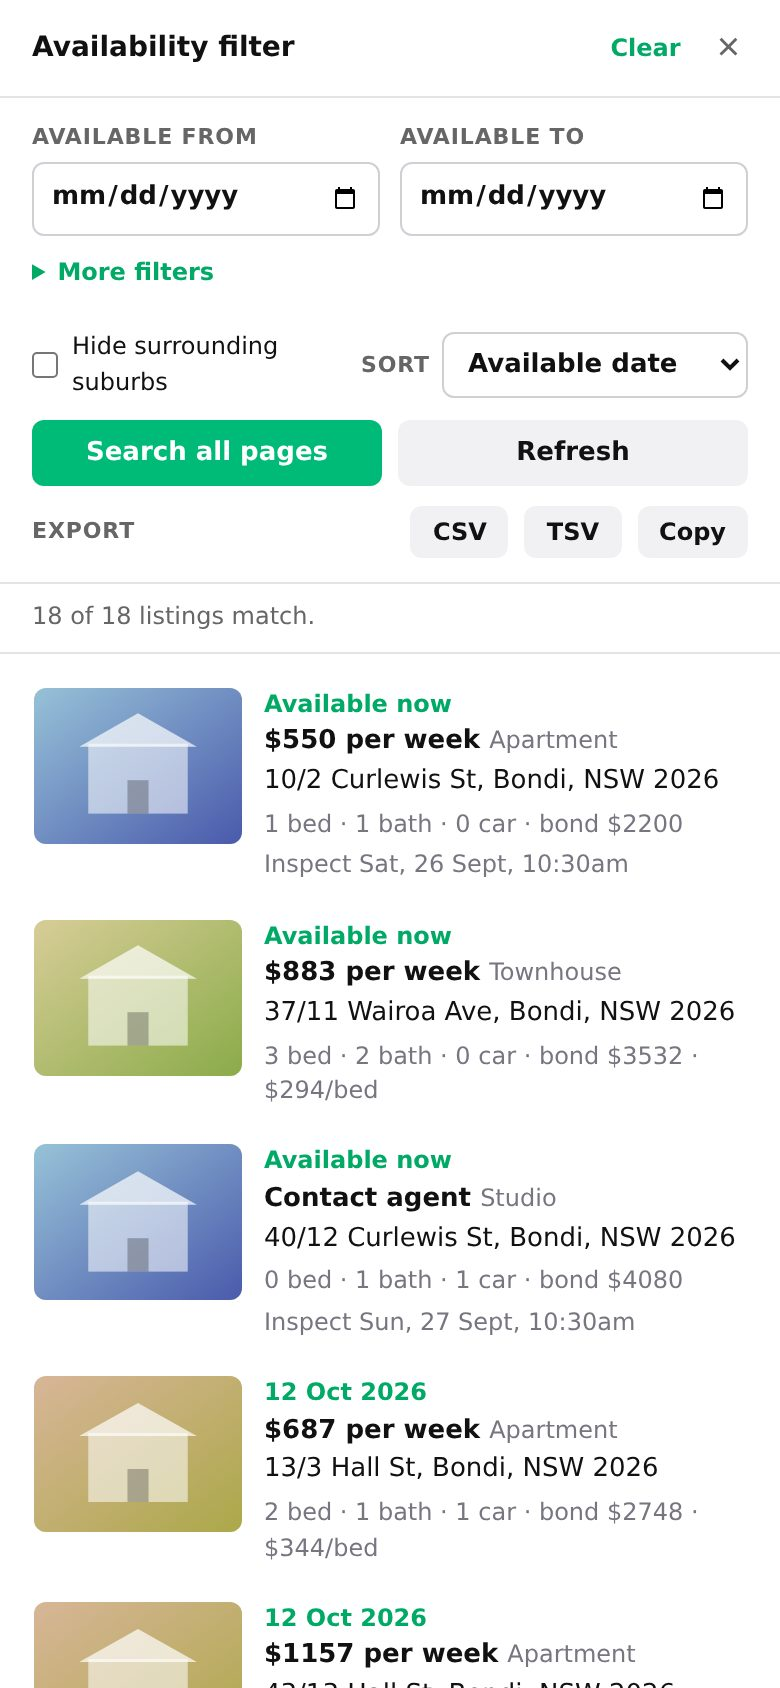
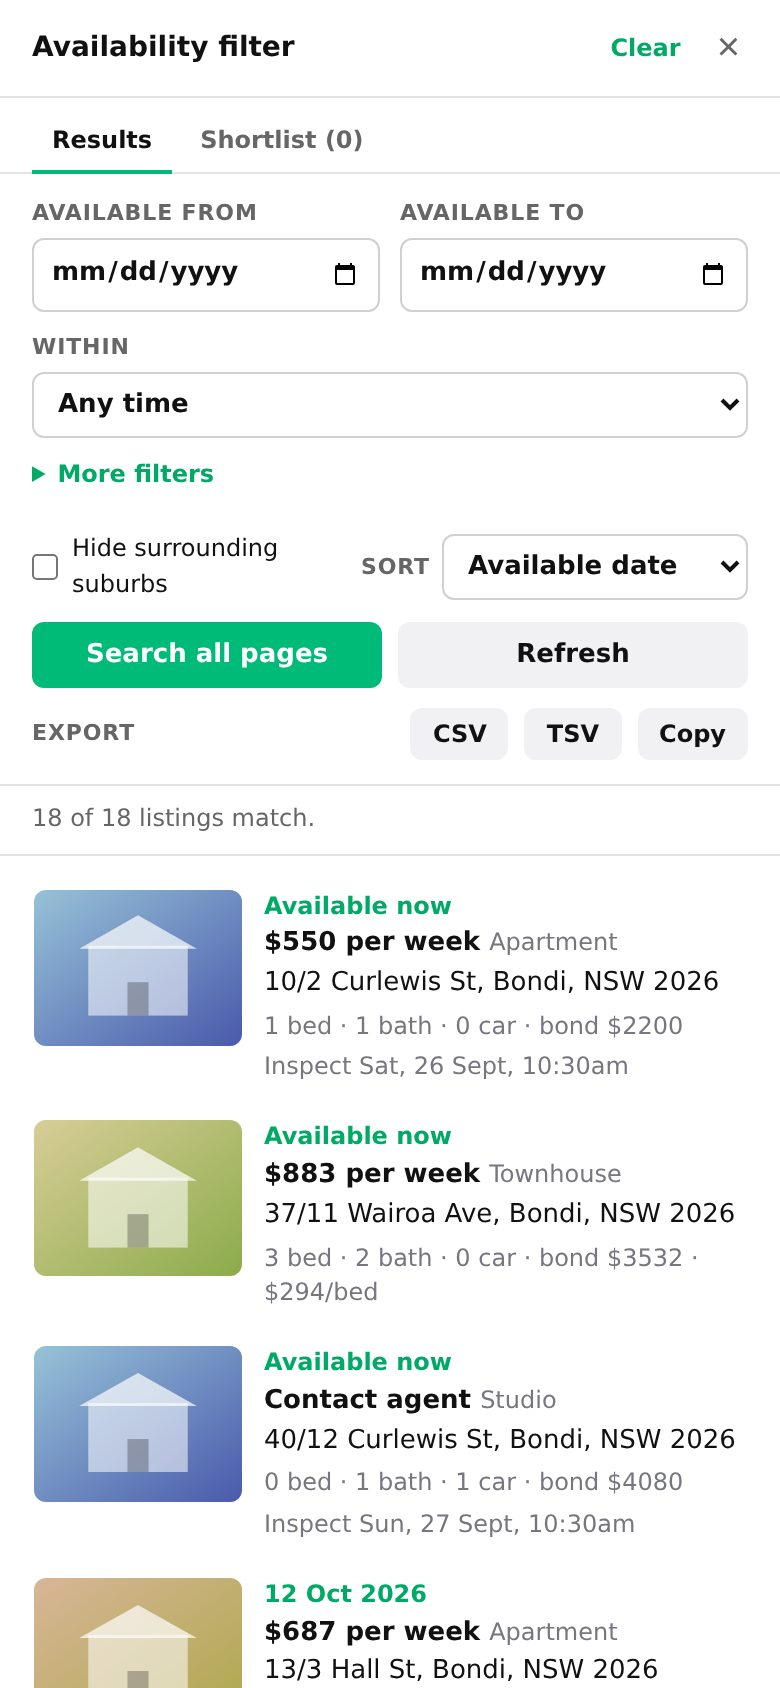
Document shortlist tab and rolling window; add screenshot; hide Clear on shortlist

diff --git a/test/e2e/screenshots.js b/test/e2e/screenshots.js
@@ -47,6 +47,12 @@ const SEARCH = `${ORIGIN}/rent/in-bondi,+nsw+2026/list-1`;
     return { c: now - 7 * day, m };
   };
   await shot('shortlist', { seed: history, act: async (page) => { await search(page); await page.hover('.rf-item:nth-child(2)'); } });
+  await shot('shortlist-tab', { seed: () => {
+    const h = history();
+    Object.assign(h.m[146500001], { st: Date.now(), n: 'Ask agent about pets and the second car space.', d: { u: `${ORIGIN}/property-apartment-nsw-bondi-146500001`, a: '13/3 Hall St, Bondi, NSW 2026', p: '$687 per week', v: '12 Oct 2026', i: 'https://i2.au.reastatic.net/{size}/fixture/1.svg'.replace('{size}', '345x260'), t: 'Apartment', b: 2, ba: 1, c: 1 } });
+    Object.assign(h.m[146500009], { s: 1, st: Date.now() - 864e5, d: { u: `${ORIGIN}/property-apartment-nsw-manly-146500009`, a: '4/21 The Corso, Manly, NSW 2095', p: '$940 per week', v: 'Sat 7th Nov', i: 'https://i2.au.reastatic.net/345x260/fixture/9.svg', t: 'Apartment', b: 2, ba: 2, c: 1 } });
+    return h;
+  }, act: async (page) => { await page.click('#rf-launch'); await page.click('[data-view=shortlist]'); } });
   await shot('badges', { seed: history, act: async (page) => { await page.evaluate(() => window.scrollTo(0, 690)); } });
   await shot('drawer', { act: async (page) => { await search(page); await setFrom(page, '2026-10-10'); } });
   await shot('filters', { act: async (page) => {

diff --git a/rea-availability-filter.user.js b/rea-availability-filter.user.js
@@ -644,6 +644,7 @@
   #rf-panel *{box-sizing:border-box}
   .rf-head{padding:14px 16px;border-bottom:1px solid var(--rf-line);display:flex;align-items:center;gap:8px}
   .rf-head h2{margin:0;font-size:14px;font-weight:650;flex:1;color:var(--rf-fg)}
+  .rf-clear[hidden]{display:none}
   .rf-clear{border:0;background:none;font:600 12px system-ui,sans-serif;color:var(--rf-accent-fg);cursor:pointer;padding:2px 6px}
   .rf-x{border:0;background:none;font-size:20px;line-height:1;cursor:pointer;color:var(--rf-muted);padding:0 4px}
   .rf-controls{padding:12px 16px;border-bottom:1px solid var(--rf-line);display:grid;gap:10px;max-height:60vh;overflow-y:auto}
@@ -960,6 +961,7 @@
     const sl = view === 'shortlist';
     ui.controls.hidden = sl;
     ui.slBar.hidden = !sl;
+    ui.panel.querySelector('.rf-clear').hidden = sl; // filters don't apply to the shortlist
     if (sl) renderShortlist();
     else if (cache) showResults();
     else { ui.list.innerHTML = '<div class="rf-empty">Set your dates, then search.<br>Every result page is merged and sorted by availability.</div>'; setStatus(''); setExport(true); }

diff --git a/README.md b/README.md
@@ -19,7 +19,7 @@ Updates are automatic: Tampermonkey checks `@updateURL` (the file on `main`) and
 ## Features
 
 **Filter and sort across every page**
-- Available from / to. Handles "Available now", `12 Oct 2026`, `Mon 12th Oct` (year inferred), `October 12`, `1st of December`, `12/10/2026`. Past dates count as available now.
+- Available from / to, or a rolling window (within 2/4/8/12 weeks) that stays current as a saved setting. Handles "Available now", `12 Oct 2026`, `Mon 12th Oct` (year inferred), `October 12`, `1st of December`, `12/10/2026`. Past dates count as available now.
 - Weekly rent min/max (monthly and annual rents converted to weekly), min beds/baths/cars, property type, photo required, inspection on a given day.
 - Keywords over headline, description and address: `pool -studio "north facing"`.
 - Sort by available date, price, price per bed, most beds, next inspection, newest listed.
@@ -33,6 +33,8 @@ Updates are automatic: Tampermonkey checks `@updateURL` (the file on `main`) and
 
 **Shortlist, hide, new, price changes**
 - Star a listing to shortlist it, or hide one you've ruled out. Both persist in your browser.
+- The **Shortlist** tab collects starred listings from every search you've run, with a private note per listing.
+- **Backup / Restore** the shortlist, hidden listings and notes as a JSON file, eg to move to another browser.
 - Listings you haven't seen before are tagged **new** for 48 hours; price changes show "was $X".
 
 ![Shortlist and price-change tags](docs/screenshots/shortlist.jpg)
@@ -48,7 +50,7 @@ Updates are automatic: Tampermonkey checks `@updateURL` (the file on `main`) and
 - **Polite to REA**: pages are fetched one at a time with a jittered ~600ms gap. 429/5xx responses back off exponentially (honouring `Retry-After`, capped at 60s) and requests time out after 20s. The page you're already on is reused rather than refetched, and results are cached per tab for 10 minutes. **Refresh** forces a refetch.
 - **SPA-aware**: changing the search cancels an in-flight crawl. Paging within a search keeps the cache.
 - **Non-invasive**: REA's DOM is only touched append-only (one badge per result card plus `data-rf-*` attributes), so React re-renders can't break it or be broken by it.
-- **Storage**: settings, shortlist and seen-listing history live in `localStorage` on realestate.com.au (listings not seen for 90 days are forgotten unless shortlisted or hidden). Search results live in `sessionStorage` (two searches max). Clear site data to reset.
+- **Storage**: settings, shortlist, notes and seen-listing history live in `localStorage` on realestate.com.au (listings not seen for 90 days are forgotten unless shortlisted, hidden or noted). Search results live in `sessionStorage` (two searches max). Clear site data to reset.
 
 ## When REA changes something
 
